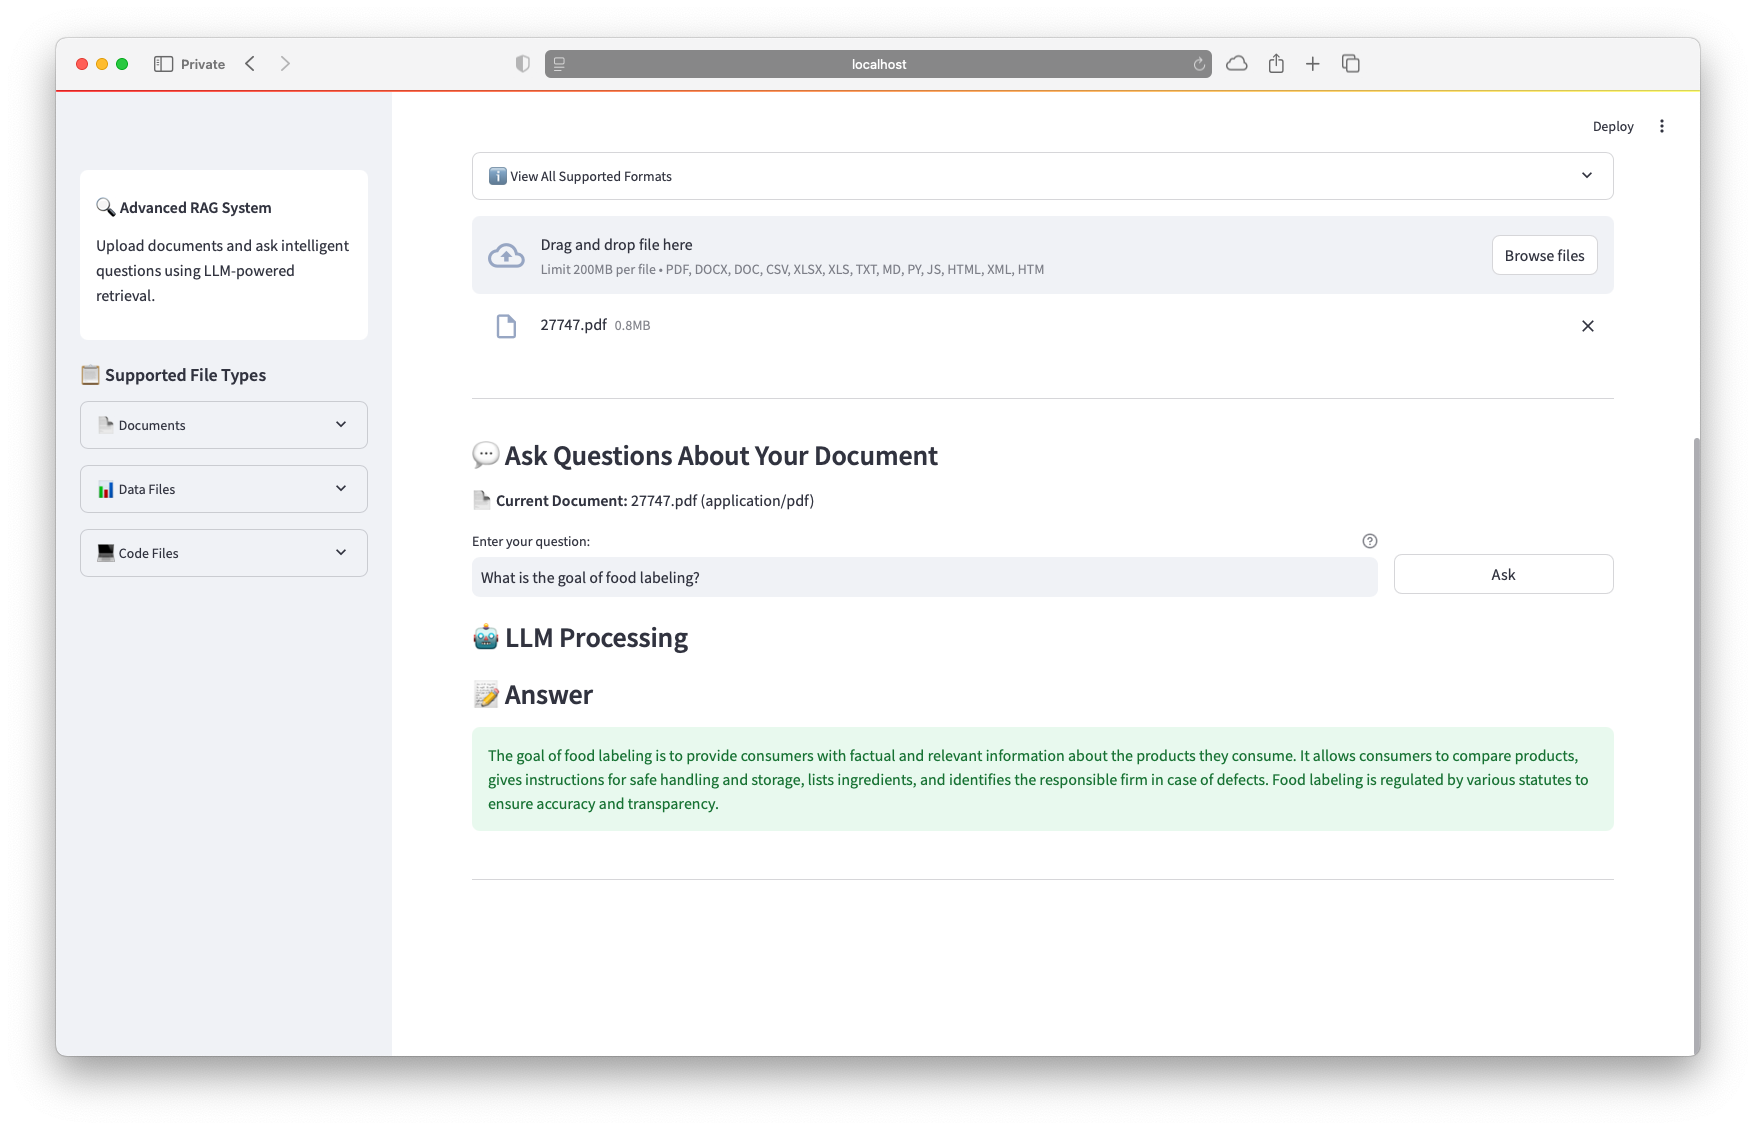
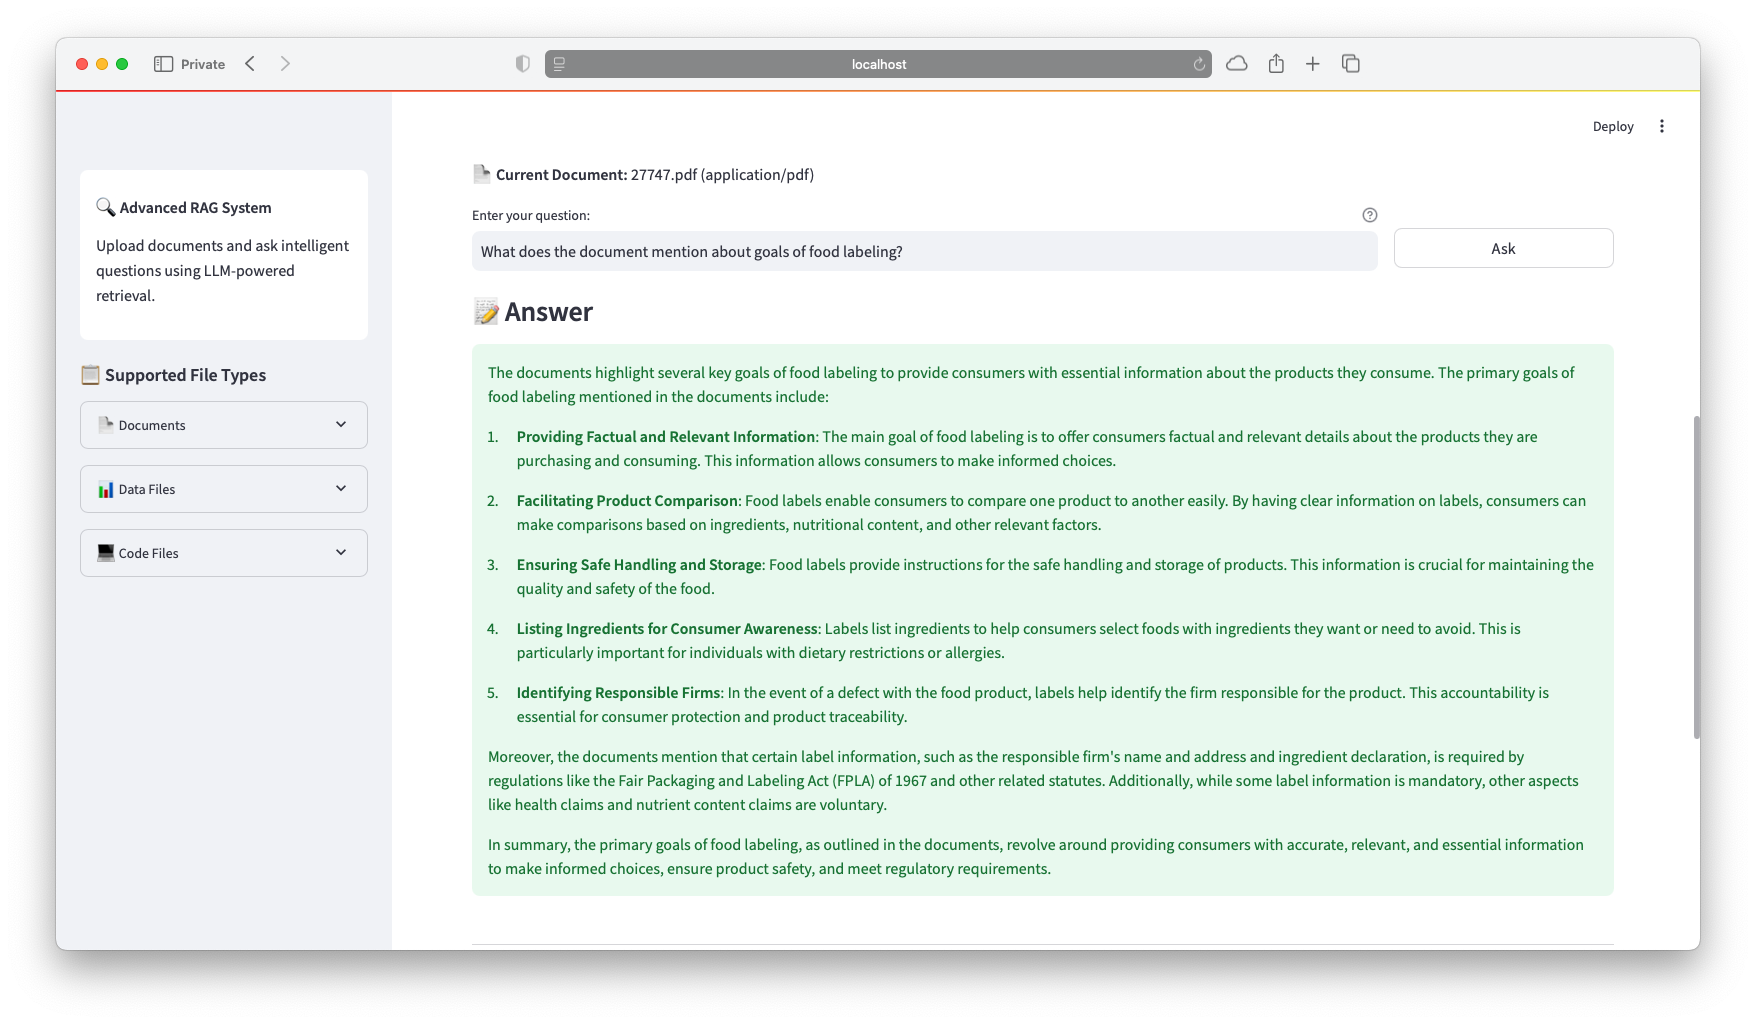
Evaluation results and UI updates

diff --git a/app.py b/app.py
@@ -25,8 +25,6 @@ rag_workflow = RAGWorkflow()
 
 def handle_question_processing(question):
     """Handle the Q&A processing workflow"""
-    st.markdown("### 🤖 LLM Processing")
-    
     # Debug info
     print(f"Processing question: {question}")
     
@@ -35,7 +33,110 @@ def handle_question_processing(question):
             # Process the question - workflow will handle retriever automatically
             result = rag_workflow.process_question(question)
         
+        # Render answer section (it will handle its own heading)
         render_answer_section(result)
+        
+        # Show evaluation scores and system information
+        if result:
+            st.markdown("---")
+            st.markdown("### 📊 System Information")
+            
+            # Search Method Status
+            search_method = result.get('search_method', 'Unknown')
+            online_search = result.get('online_search', False)
+            
+            if search_method == 'online' or online_search:
+                st.info("🌐 Online Search Used")
+            elif search_method == 'documents':
+                st.success("📄 Document Search Used")
+            else:
+                st.warning("❓ Search method not specified")
+            
+            # Create summary table
+            summary_data = []
+            
+            # Document Evaluations Summary
+            if 'document_evaluations' in result and result['document_evaluations']:
+                evaluations = result['document_evaluations']
+                relevant_count = sum(1 for eval in evaluations if eval.score.lower() == 'yes')
+                total_count = len(evaluations)
+                summary_data.append(["📋 Document Relevance", f"{relevant_count}/{total_count} relevant"])
+                
+                # Show average relevance score if available
+                if hasattr(evaluations[0], 'relevance_score'):
+                    avg_score = sum(eval.relevance_score for eval in evaluations) / len(evaluations)
+                    summary_data.append(["📊 Avg. Doc Relevance", f"{avg_score:.2f}"])
+            
+            # Question-Answer Match
+            if 'question_relevance_score' in result:
+                q_relevance = result['question_relevance_score']
+                if hasattr(q_relevance, 'binary_score'):
+                    match_text = "✅ Well Matched" if q_relevance.binary_score else "❌ Poor Match"
+                    summary_data.append(["❓ Question Match", match_text])
+                if hasattr(q_relevance, 'relevance_score'):
+                    summary_data.append(["📈 Question Score", f"{q_relevance.relevance_score:.2f}"])
+                if hasattr(q_relevance, 'completeness'):
+                    summary_data.append(["📝 Completeness", q_relevance.completeness])
+            
+            # Document Relevance Grading
+            if 'document_relevance_score' in result:
+                doc_relevance = result['document_relevance_score']
+                if hasattr(doc_relevance, 'binary_score'):
+                    grounding_text = "✅ Well Grounded" if doc_relevance.binary_score else "❌ Not Grounded"
+                    summary_data.append(["🎯 Answer Grounding", grounding_text])
+                if hasattr(doc_relevance, 'confidence'):
+                    summary_data.append(["🔒 Confidence", f"{doc_relevance.confidence:.2f}"])
+            
+            # Display summary table
+            if summary_data:
+                import pandas as pd
+                df = pd.DataFrame(summary_data, columns=["Metric", "Value"])
+                st.table(df)
+            
+            # Show detailed evaluations in expandable section
+            with st.expander("🔧 Detailed Evaluation Results"):
+                
+                # Document Evaluations Table
+                if 'document_evaluations' in result and result['document_evaluations']:
+                    st.markdown("**📋 Document Evaluation Details:**")
+                    
+                    eval_data = []
+                    for i, eval in enumerate(result['document_evaluations']):
+                        row = [f"Document {i+1}", eval.score]
+                        
+                        if hasattr(eval, 'relevance_score'):
+                            row.append(f"{eval.relevance_score:.2f}")
+                        else:
+                            row.append("N/A")
+                        
+                        if hasattr(eval, 'coverage_assessment') and eval.coverage_assessment:
+                            row.append(eval.coverage_assessment[:50] + "..." if len(eval.coverage_assessment) > 50 else eval.coverage_assessment)
+                        else:
+                            row.append("N/A")
+                        
+                        if hasattr(eval, 'missing_information') and eval.missing_information:
+                            row.append(eval.missing_information[:50] + "..." if len(eval.missing_information) > 50 else eval.missing_information)
+                        else:
+                            row.append("N/A")
+                        
+                        eval_data.append(row)
+                    
+                    if eval_data:
+                        eval_df = pd.DataFrame(eval_data, columns=["Document", "Score", "Relevance", "Coverage", "Missing Info"])
+                        st.dataframe(eval_df, use_container_width=True)
+                
+                # Reasoning Table
+                reasoning_data = []
+                if 'question_relevance_score' in result and hasattr(result['question_relevance_score'], 'reasoning'):
+                    reasoning_data.append(["Question Relevance", result['question_relevance_score'].reasoning])
+                
+                if 'document_relevance_score' in result and hasattr(result['document_relevance_score'], 'reasoning'):
+                    reasoning_data.append(["Document Relevance", result['document_relevance_score'].reasoning])
+                
+                if reasoning_data:
+                    st.markdown("**🧠 Evaluation Reasoning:**")
+                    reasoning_df = pd.DataFrame(reasoning_data, columns=["Evaluation Type", "Reasoning"])
+                    st.dataframe(reasoning_df, use_container_width=True)
 
 
 def handle_user_interaction(user_file):

diff --git a/rag_workflow.py b/rag_workflow.py
@@ -143,8 +143,12 @@ class RAGWorkflow:
         print(f"Evaluating {len(documents)} documents, online_search: {online_search}")
         
         filtered_docs = []
+        document_evaluations = []
+        
         for document in documents:
             response = evaluate_docs.invoke({"question": question, "document": document.page_content})
+            document_evaluations.append(response)
+            
             result = response.score
             if result.lower() == "yes":
                 filtered_docs.append(document)
@@ -152,7 +156,17 @@ class RAGWorkflow:
                 online_search = True
         
         print(f"Filtered to {len(filtered_docs)} relevant documents, online_search: {online_search}")
-        return {"documents": filtered_docs, "question": question, "online_search": online_search}
+        
+        # Determine search method
+        search_method = "online" if online_search else "documents"
+        
+        return {
+            "documents": filtered_docs, 
+            "question": question, 
+            "online_search": online_search,
+            "search_method": search_method,
+            "document_evaluations": document_evaluations
+        }
     
     def _generate_answer(self, state: GraphState):
         """Generate an answer based on the retrieved documents"""
@@ -183,8 +197,13 @@ class RAGWorkflow:
         else:
             documents = [results]
             print(f"Using only online search results")
-            
-        return {"documents": documents, "question": question}
+        
+        # Update search method to indicate online search was used
+        return {
+            "documents": documents, 
+            "question": question, 
+            "search_method": "online"
+        }
     
     def _any_doc_irrelevant(self, state):
         """Determine whether any document is irrelevant, triggering online search"""
@@ -201,15 +220,20 @@ class RAGWorkflow:
         solution = state["solution"]
 
         print("Checking document relevance...")
-        score = document_relevance.invoke(
+        doc_relevance_score = document_relevance.invoke(
             {"documents": documents, "solution": solution}
         )
 
-        if score.binary_score:
+        if doc_relevance_score.binary_score:
             print("Document relevance check passed")
             print("Checking question relevance...")
-            score = question_relevance.invoke({"question": question, "solution": solution})
-            if score.binary_score:
+            question_relevance_score = question_relevance.invoke({"question": question, "solution": solution})
+            
+            # Store the evaluation scores in state
+            state["document_relevance_score"] = doc_relevance_score
+            state["question_relevance_score"] = question_relevance_score
+            
+            if question_relevance_score.binary_score:
                 print("ROUTING DECISION: Going to 'END' (Answers Question)")
                 return "Answers Question"
             else:
@@ -217,4 +241,6 @@ class RAGWorkflow:
                 return "Question not addressed"
         else:
             print("ROUTING DECISION: Going to 'Generate Answer' (Hallucinations detected)")
+            # Store the document relevance score even if it failed
+            state["document_relevance_score"] = doc_relevance_score
             return "Hallucinations detected"

diff --git a/state.py b/state.py
@@ -1,4 +1,4 @@
-from typing import List, TypedDict
+from typing import List, TypedDict, Optional, Dict, Any
 
 class GraphState(TypedDict):
     
@@ -6,3 +6,7 @@ class GraphState(TypedDict):
     solution: str
     online_search: bool
     documents: List[str]
+    search_method: Optional[str]  # 'documents' or 'online'
+    document_evaluations: Optional[List[Dict[str, Any]]]  # Store document evaluation results
+    document_relevance_score: Optional[Dict[str, Any]]  # Store document relevance check
+    question_relevance_score: Optional[Dict[str, Any]]  # Store question relevance check

diff --git a/README.md b/README.md
@@ -36,6 +36,17 @@ Here is what happens when you use this application and the process is actually q
 
 *Ask questions and get answers*
 
+- **View Evaluation Results**:
+  - See detailed system information about how your answer was generated
+  - Review evaluation scores for document relevance, question matching, and answer grounding
+  - Understand which documents were used and their relevance scores
+  - View confidence levels and reasoning behind each evaluation
+  - Check if online search was used or if answers came from your documents
+
+![Evaluation Results](screenshots/evaluations.png)
+
+*Comprehensive evaluation metrics and system transparency*
+
 - **Smart Answer Generation**:
   - Uses LangGraph to make sure answers are relevant and accurate
   - Has built-in checks to catch when something might be wrong
@@ -90,7 +101,15 @@ The application works in a few simple steps, but there is complex processing hap
    - If one method does not work, it tries another approach
    - You always know where your answer originated
 
-5. **Seeing What's Happening** (Optional):
+5. **Evaluation and Transparency**:
+   - After generating an answer, the system provides detailed evaluation metrics
+   - Shows document relevance scores and which documents were most helpful
+   - Displays question-answer matching quality and completeness ratings
+   - Provides confidence levels and reasoning for each evaluation
+   - Indicates whether online search was used or if answers came from your documents
+   - All evaluation data is presented in easy-to-read tables for full transparency
+
+6. **Seeing What's Happening** (Optional):
    - If you set up LangSmith, you can see exactly what the app is doing
    - Great for understanding the process or fixing issues
    - Shows you timing and performance info
